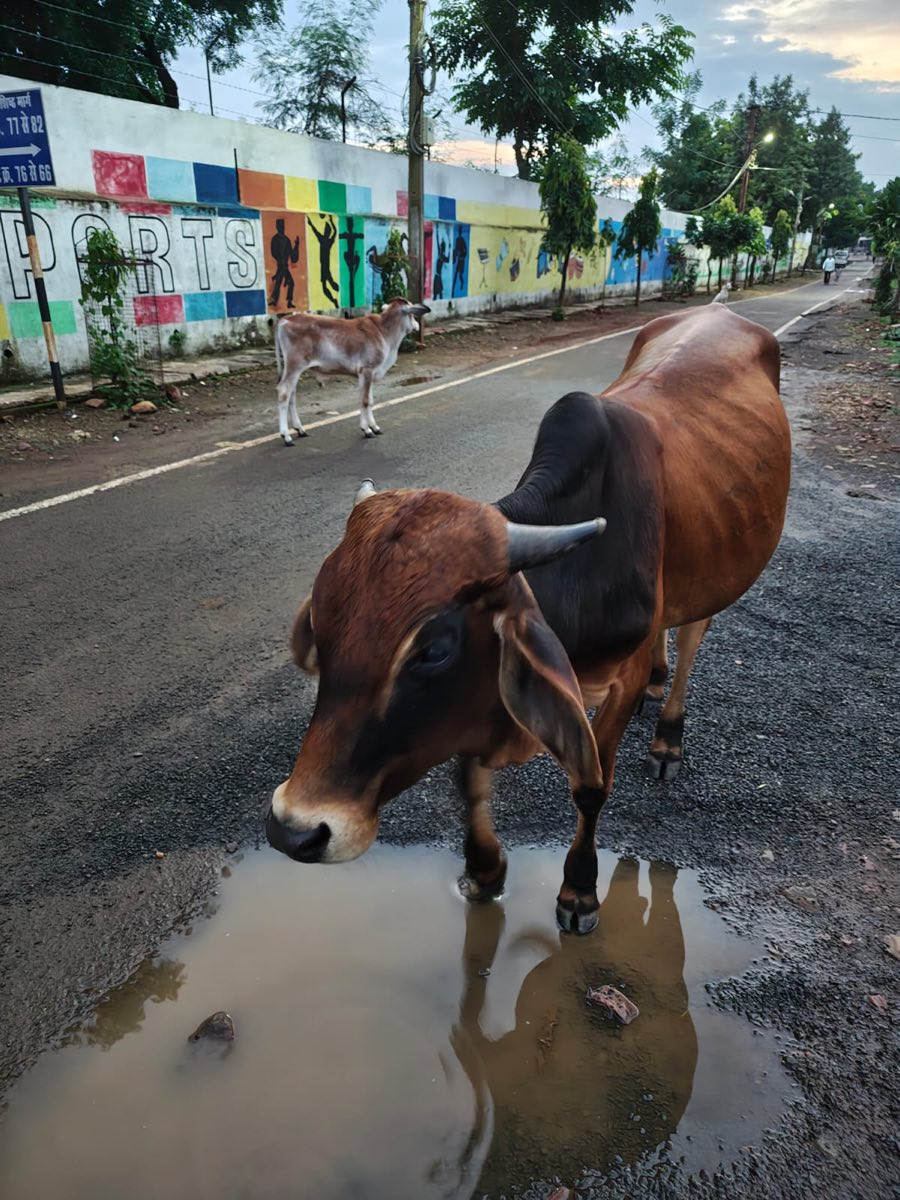
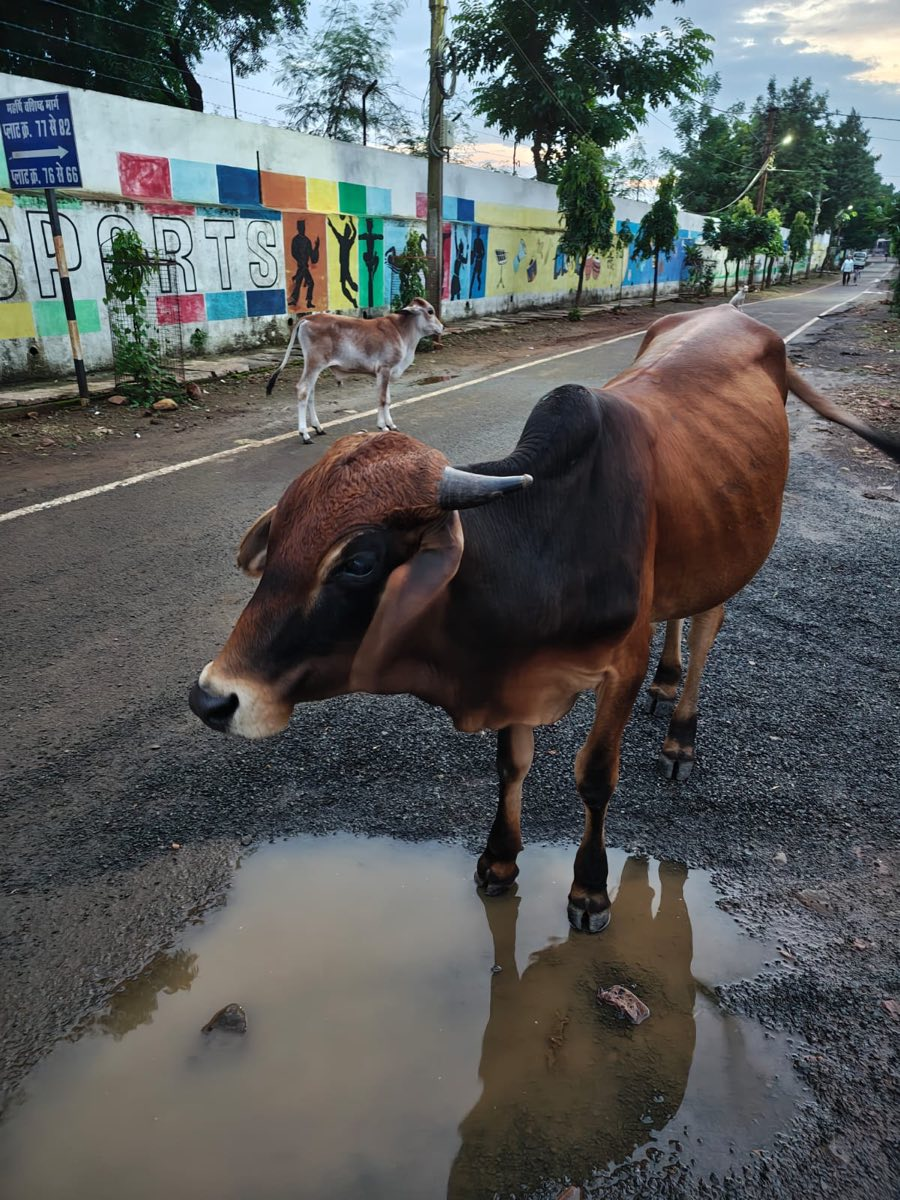
Add a second success story and cheque/transfer details
Second story uses the before/after pair supplied on 22 September. The
"before" still had the phone's status bar and the Edit/Resize/Remove
toolbar baked in, so it is cropped to the photograph before use.

Cheque and bank transfer details now sit under the UPI QR, with a line
asking donors to email once sent so the 80G receipt can be issued.

Published: account name, bank, account number, branch. Deliberately not
published, though they appear on the cheque book: the account holder's
personal mobile, their personal Gmail, and their home address. None are
needed to pay, all three belong to a named individual rather than the
foundation, and the address contradicts the one printed on the 80G
receipts. The account holder's mobile is also not the NGO's published
number.

IFSC is still missing. Cheques work without it; NEFT and IMPS do not.

diff --git a/src/components/HowToHelp.tsx b/src/components/HowToHelp.tsx
@@ -164,6 +164,33 @@ const HowToHelp = () => {
               </p>
             </div>
           </div>
+
+          <div className="mt-10 border-t border-pf-cream/20 pt-8 text-left max-w-xl mx-auto">
+            <h4 className="text-sm uppercase tracking-wide text-pf-sage mb-4">
+              By cheque or bank transfer
+            </h4>
+            <dl className="space-y-2 text-sm">
+              <div className="sm:flex sm:gap-3">
+                <dt className="text-pf-sage sm:w-40 shrink-0">Cheques payable to</dt>
+                <dd className="text-white font-medium">{ORG.bank.accountName}</dd>
+              </div>
+              <div className="sm:flex sm:gap-3">
+                <dt className="text-pf-sage sm:w-40 shrink-0">Bank</dt>
+                <dd className="text-white">{ORG.bank.bankName}</dd>
+              </div>
+              <div className="sm:flex sm:gap-3">
+                <dt className="text-pf-sage sm:w-40 shrink-0">Account number</dt>
+                <dd className="text-white font-mono tabular-nums">{ORG.bank.accountNumber}</dd>
+              </div>
+              <div className="sm:flex sm:gap-3">
+                <dt className="text-pf-sage sm:w-40 shrink-0">Branch</dt>
+                <dd className="text-white">{ORG.bank.branch}</dd>
+              </div>
+            </dl>
+            <p className="mt-4 text-sm text-pf-sage">
+              Please email {ORG.email} once sent, so we can issue your 80G receipt.
+            </p>
+          </div>
         </div>
       </div>
 

diff --git a/src/lib/organization.ts b/src/lib/organization.ts
@@ -24,6 +24,18 @@ export const ORG = {
   // Donations. The QR image lives at /media/upi-qr.png.
   upiId: 'prakritifoundation.82082332@hdfcbank',
 
+  // For cheques and bank transfers. Deliberately excludes the account
+  // holder's personal mobile, personal email and home address, which appear
+  // on the cheque book but are not needed to pay and should not be published.
+  // IFSC is still missing and is required for NEFT/IMPS - cheques work
+  // without it, transfers do not.
+  bank: {
+    accountName: 'Prakriti Foundation',
+    bankName: 'HDFC Bank',
+    accountNumber: '50200115061294',
+    branch: 'Palasia Main Road, Indore - 452001',
+  },
+
   pan: 'AAQCP1436Q',
   urn80G: 'AAQCP1436QF20251',
 } as const;

diff --git a/src/components/SuccessStories.tsx b/src/components/SuccessStories.tsx
@@ -24,6 +24,15 @@ const SEED_STORIES: Story[] = [
     before: '/media/story-calf-before.jpg',
     after: '/media/story-calf-after.jpg',
     story: 'Picked up from the roadside by our team and moved to the shelter, where she is being fed and cared for.'
+  },
+  {
+    id: 'seed-calf-2',
+    name: 'Back on her feet',
+    location: 'Indore',
+    date: 'September 2026',
+    before: '/media/story-calf2-before.jpg',
+    after: '/media/story-calf2-after.jpg',
+    story: 'Treated and fed by our team, and now healthy enough to be back out with the herd.'
   }
 ];
 
